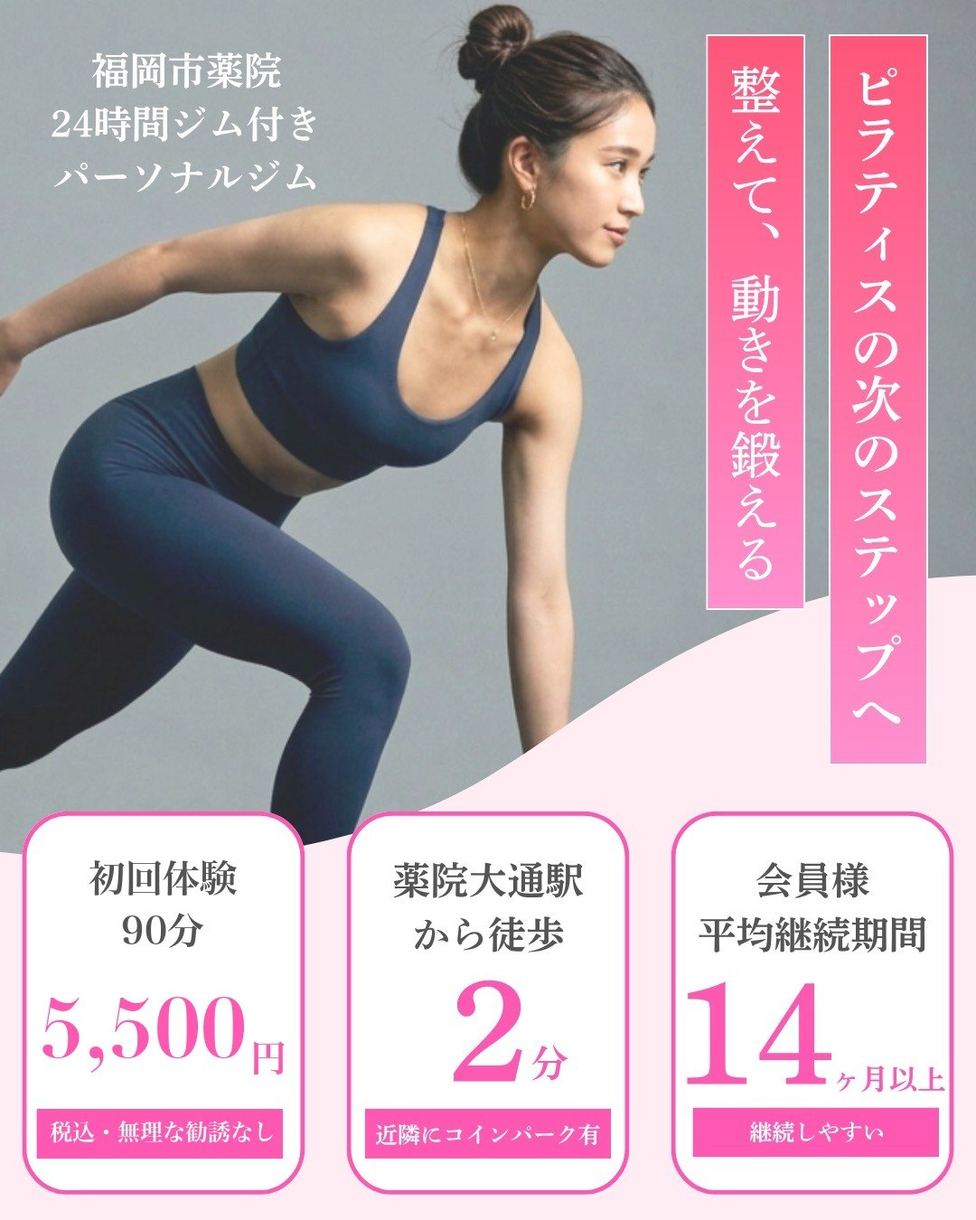
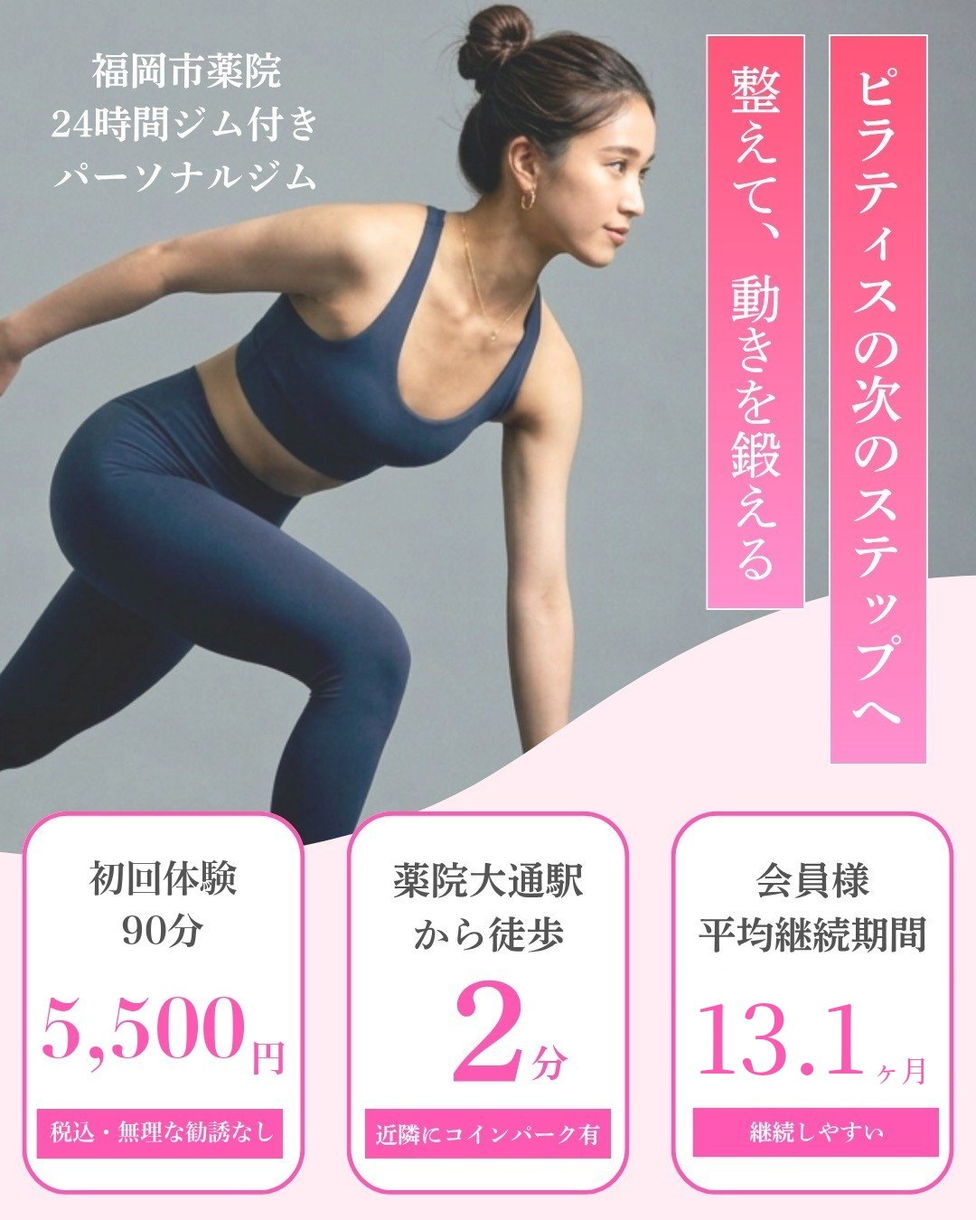
薬院ピラティスLP: 表現リスクの除去（変更1）
- 二重価格（通常13,200円）を削除
- 変化事例セクションと冒頭のCさん引用を削除
- リフォーマー写真ブロックを削除、「ここひとつで完結」等の表現を修正
- 代謝表現を弱め、24時間ジムは「利用料込み」に統一（USP画像の見出しも修正）
- ヒーロー画像の平均継続期間を13.1ヶ月に修正、USP画像のaltを実画像に合わせて修正
- 「1日数枠」を「各店 毎月5名限定」に統一、title/meta/OGPを更新

Claude-Session: https://claude.ai/code/session_01XMXEH83QHZ7METVjH455Hv

Changed region(s): [[0.7028, 0.8089, 0.9778, 0.9022]]

diff --git a/pilates-yakuin.html b/pilates-yakuin.html
@@ -4,16 +4,16 @@
 <meta charset="UTF-8">
 <meta name="viewport" content="width=device-width, initial-scale=1.0">
 <link rel="preload" as="image" href="images/pilates-hero-yakuin.webp" type="image/webp">
-<title>5toolgym 薬院店 | ピラティスで変わらなかった身体を変える｜福岡・薬院のパーソナルジム</title>
-<meta name="description" content="ピラティスで姿勢は変わった。でも、体型は変わらなかった。ピラティスの次に必要な運動が、ここにあります。薬院大通駅徒歩2分のパーソナルジム。">
+<title>ピラティスで変わらなかった身体へ、次のステップを｜5toolgym薬院店（福岡・薬院）</title>
+<meta name="description" content="福岡・薬院のパーソナルトレーニングジム。ピラティスで姿勢は変わったのに体型は変わらなかった方へ、立位の動きと負荷を足す次のステップを。24時間ジム利用料込み。体験90分5,500円。">
 <meta property="og:type" content="website">
-<meta property="og:title" content="5toolgym 薬院店 | ピラティスで変わらなかった身体を変える｜福岡・薬院">
-<meta property="og:description" content="ピラティスで姿勢は変わった。でも、体型は変わらなかった。ピラティスの次に必要な運動が、ここにあります。">
+<meta property="og:title" content="ピラティスの次に必要な運動が、ここにあります｜5toolgym薬院店">
+<meta property="og:description" content="姿勢と呼吸を整えた土台を活かして、立って動く力と負荷を。薬院大通駅徒歩2分、24時間ジム利用料込みのパーソナルトレーニング。">
 <meta property="og:image" content="https://lp-yakuin01.5toolgym.workers.dev/images/pilates-hero-yakuin.webp">
 <meta property="og:site_name" content="5toolgym 薬院店">
 <meta name="twitter:card" content="summary_large_image">
 <meta name="twitter:title" content="5toolgym 薬院店 | ピラティスで変わらなかった身体を変える｜福岡・薬院">
-<meta name="twitter:description" content="ピラティスで姿勢は変わった。でも、体型は変わらなかった。ピラティスの次に必要な運動が、ここにあります。">
+<meta name="twitter:description" content="姿勢と呼吸を整えた土台を活かして、立って動く力と負荷を。薬院大通駅徒歩2分、24時間ジム利用料込みのパーソナルトレーニング。">
 <meta name="twitter:image" content="https://lp-yakuin01.5toolgym.workers.dev/images/pilates-hero-yakuin.webp">
 <meta property="og:url" content="https://lp-yakuin01.5toolgym.workers.dev/pilates-yakuin.html">
 <link rel="canonical" href="https://lp-yakuin01.5toolgym.workers.dev/pilates-yakuin.html">
@@ -442,11 +442,6 @@ footer{background:#2D2D2D;padding:36px var(--sp) 20px;text-align:center}
 
 
 
-<!-- ══ REFORMER IMAGE ══ -->
-<div style="max-width:var(--max);margin:0 auto;padding:0 var(--sp)">
-  <picture><source srcset="images/pilates-reformer-yakuin.webp" type="image/webp"><img width="1408" height="768" src="images/pilates-reformer-yakuin.jpg" alt="5toolgym薬院店 マシンピラティスのリフォーマー" loading="lazy" style="width:100%;height:auto;display:block;border-radius:var(--r)"></picture>
-</div>
-
 <!-- ══ HOOK / EMPATHY ══ -->
 <picture style="display:block;line-height:0"><source srcset="images/pilates-empathy-yakuin.webp" type="image/webp"><img width="800" height="3000" src="images/pilates-empathy-yakuin.jpg" alt="レッスンの後は確かにスッキリしている。でも、1年前の自分とあまり変化がわからない。太もものパンパンや二の腕のたるみ、腰回りってずっとこのままなの？「姿勢が良くなったね！」と褒められることが増えたけど本当はもっとカラダを引き締めたくてピラティスに通ったんだけど・・・SNSで見かける綺麗な女性はピラティスに通っていた。私もきっとそうなれる！なんて思っていたけど現実はそう甘くなかった。絶対変わってやる！！と思ってがんばって続けてきたけどなぜかあまり変わらない。もしかして、今までの私の努力って無駄だったの・・・？あなたの努力は無駄じゃなかった 今、あなたに本当に必要なのは次の新しい運動のステップ だから5toolgymに任せてみませんか？" loading="lazy" style="width:100%;height:auto;display:block"></picture>
 <picture id="reason" style="display:block;line-height:0;scroll-margin-top:52px"><source srcset="images/pilates-hook-yakuin.webp" type="image/webp"><img width="800" height="1200" src="images/pilates-hook-yakuin.jpg" alt="ピラティスだけでは変わらない理由があります ピラティスは痩せるための運動ではありません" loading="lazy" style="width:100%;height:auto;display:block"></picture>
@@ -475,7 +470,7 @@ footer{background:#2D2D2D;padding:36px var(--sp) 20px;text-align:center}
       <div class="usp-item">
         <div>
           <picture style="display:block;line-height:0;margin-bottom:14px"><source srcset="images/pilates-factor3-yakuin.webp" type="image/webp"><img width="800" height="600" src="images/pilates-factor3-yakuin.jpg" alt="③筋肉を増やすための負荷" loading="lazy" style="width:100%;height:auto;display:block;border-radius:var(--r)"></picture>
-          <p class="usp-desc">ここが、体重が動かなかった直接の理由です。<br><br>筋肉量を増やすには、少しずつ重さを増やしていく刺激が必要です。<br>自重や軽いスプリングでは、その刺激に届きません。<br><br>筋肉が増えなければ、基礎代謝は上がりません。<br>基礎代謝が上がらなければ、同じ食事量でも体重は動きません。<br><br>ピラティスで「引き締まった感じはあるのに体重は変わらない」のは、ここに理由があります。</p>
+          <p class="usp-desc">ここが、体重が動かなかった直接の理由です。<br><br>筋肉量を増やすには、少しずつ重さを増やしていく刺激が必要です。<br>自重や軽いスプリングでは、その刺激に届きません。<br><br>筋肉量を維持・向上させる負荷がなければ、<br>太りにくい身体づくりは進みにくくなります。<br><br>ピラティスで「引き締まった感じはあるのに体重は変わらない」のは、ここに理由があります。</p>
         </div>
       </div>
     </div>
@@ -492,12 +487,6 @@ footer{background:#2D2D2D;padding:36px var(--sp) 20px;text-align:center}
           <li><span>安心</span>無理な勧誘なし・当日キャンセルOK・相談だけでもOK</li>
           <li><span>環境</span>女性トレーナー対応可能・24時間ジム付き</li>
         </ul>
-        <figure class="quick-voice">
-          <blockquote>「細くなっただけでなく、猫背や太もものパンパンが良くなって、筋力も体力もついたことが嬉しいです。」</blockquote>
-          <figcaption>Cさん・20代女性（通い始めて約9ヶ月）</figcaption>
-        </figure>
-        <p class="quick-note">※ご本人の許可を得て掲載しています。効果には個人差があります。</p>
-        <a href="#results" class="quick-more">通ってくださった方の変化を見る ↓</a>
         <a href="https://instagram.kanzashi.com/l/1uyf95d0BYo/kirei" class="btn-main">体験を予約する（90分 5,500円）</a>
         <a href="https://lin.ee/Y1P0dZl" class="btn-line" data-line-pos="quick">まずLINEで質問する</a>
       <p class="btn-note" style="line-height:1.8;margin-top:12px">予約画面では、トレーナーは「指名なし」で大丈夫です。<br>準備時間を含めて約2時間の枠で表示されますが、体験は90分です。</p>
@@ -531,7 +520,7 @@ footer{background:#2D2D2D;padding:36px var(--sp) 20px;text-align:center}
           <div class="flow-num">2</div>
           <div class="flow-body">
             <p class="flow-ttl">3〜6ヶ月｜体重・体脂肪</p>
-            <p class="flow-desc">早い方は3ヶ月で動き始めます。筋肉が増えて代謝が上がってくる時期です。</p>
+            <p class="flow-desc">動き方が身についてきて、変化を感じ始める方が多い時期です。</p>
           </div>
         </div>
         <div class="flow-item">
@@ -564,37 +553,37 @@ footer{background:#2D2D2D;padding:36px var(--sp) 20px;text-align:center}
       <div class="usp-item">
         <span class="usp-num">01</span>
         <div>
-          <picture style="display:block;line-height:0;margin-top:0"><source srcset="images/pilates-usp1-yakuin.webp" type="image/webp"><img width="800" height="1000" src="images/pilates-usp1-yakuin.jpg" alt="ピラティスの感覚が、ここで活きる" loading="lazy" style="width:100%;height:auto;display:block;border-radius:var(--r)"></picture>
+          <picture style="display:block;line-height:0;margin-top:0"><source srcset="images/pilates-usp1-yakuin.webp" type="image/webp"><img width="800" height="1000" src="images/pilates-usp1-yakuin.jpg" alt="ピラティスの経験を土台に、足りない要素を積み重ねる" loading="lazy" style="width:100%;height:auto;display:block;border-radius:var(--r)"></picture>
         </div>
       </div>
       <div class="usp-item">
         <span class="usp-num">02</span>
         <div>
-          <picture style="display:block;line-height:0;margin-top:0"><source srcset="images/pilates-usp2-yakuin.webp" type="image/webp"><img width="800" height="1000" src="images/pilates-usp2-yakuin.jpg" alt="ピラティスでは届かなかった下半身を変える" loading="lazy" style="width:100%;height:auto;display:block;border-radius:var(--r)"></picture>
+          <picture style="display:block;line-height:0;margin-top:0"><source srcset="images/pilates-usp2-yakuin.webp" type="image/webp"><img width="800" height="1000" src="images/pilates-usp2-yakuin.jpg" alt="筋肉を鍛えるだけではないトレーニングを提供" loading="lazy" style="width:100%;height:auto;display:block;border-radius:var(--r)"></picture>
         </div>
       </div>
       <div class="usp-item">
         <span class="usp-num">03</span>
         <div>
-          <picture style="display:block;line-height:0;margin-top:0"><source srcset="images/pilates-usp3-yakuin.webp" type="image/webp"><img width="800" height="1000" src="images/pilates-usp3-yakuin.jpg" alt="負荷のかけ方を、身体に合わせて設計する" loading="lazy" style="width:100%;height:auto;display:block;border-radius:var(--r)"></picture>
+          <picture style="display:block;line-height:0;margin-top:0"><source srcset="images/pilates-usp3-yakuin.webp" type="image/webp"><img width="800" height="1000" src="images/pilates-usp3-yakuin.jpg" alt="追加料金なしでパーソナルストレッチ" loading="lazy" style="width:100%;height:auto;display:block;border-radius:var(--r)"></picture>
         </div>
       </div>
       <div class="usp-item">
         <span class="usp-num">04</span>
         <div>
-          <picture style="display:block;line-height:0;margin-top:0"><source srcset="images/pilates-usp4-yakuin.webp" type="image/webp"><img width="800" height="1000" src="images/pilates-usp4-yakuin.jpg" alt="ピラティスも、ここで続けられる" loading="lazy" style="width:100%;height:auto;display:block;border-radius:var(--r)"></picture>
+          <picture style="display:block;line-height:0;margin-top:0"><source srcset="images/pilates-usp4-yakuin.webp" type="image/webp"><img width="800" height="1000" src="images/pilates-usp4-yakuin.jpg" alt="24時間ジム利用料込み" loading="lazy" style="width:100%;height:auto;display:block;border-radius:var(--r)"></picture>
         </div>
       </div>
       <div class="usp-item">
         <span class="usp-num">05</span>
         <div>
-          <picture style="display:block;line-height:0;margin-top:0"><source srcset="images/pilates-usp5-yakuin.webp" type="image/webp"><img width="800" height="1000" src="images/pilates-usp5-yakuin.jpg" alt="24時間ジム無料利用" loading="lazy" style="width:100%;height:auto;display:block;border-radius:var(--r)"></picture>
+          <picture style="display:block;line-height:0;margin-top:0"><source srcset="images/pilates-usp5-yakuin.webp" type="image/webp"><img width="800" height="1000" src="images/pilates-usp5-yakuin.jpg" alt="開始時間直前まで予約の変更・キャンセルOK" loading="lazy" style="width:100%;height:auto;display:block;border-radius:var(--r)"></picture>
         </div>
       </div>
       <div class="usp-item">
         <span class="usp-num">06</span>
         <div>
-          <picture style="display:block;line-height:0;margin-top:0"><source srcset="images/pilates-usp6-yakuin.webp" type="image/webp"><img width="800" height="1000" src="images/pilates-usp6-yakuin.jpg" alt="当日キャンセルOK 縛りなし・繰越可能" loading="lazy" style="width:100%;height:auto;display:block;border-radius:var(--r)"></picture>
+          <picture style="display:block;line-height:0;margin-top:0"><source srcset="images/pilates-usp6-yakuin.webp" type="image/webp"><img width="800" height="1000" src="images/pilates-usp6-yakuin.jpg" alt="月額コースの繰越OK" loading="lazy" style="width:100%;height:auto;display:block;border-radius:var(--r)"></picture>
         </div>
       </div>
     </div>
@@ -621,8 +610,8 @@ footer{background:#2D2D2D;padding:36px var(--sp) 20px;text-align:center}
           <tr><td>静止した姿勢を整える</td><td class="compare-ok">得意</td><td class="compare-best">こちらもアプローチする</td></tr>
           <tr><td>立位・片脚での使い方</td><td class="compare-ng">種目による</td><td class="compare-best">中心に扱う</td></tr>
           <tr><td>速い動き・日常動作への転移</td><td class="compare-ng">対象外のことが多い</td><td class="compare-best">中心に扱う</td></tr>
-          <tr><td>筋肉量と代謝を上げる</td><td class="compare-ng">対象外のことが多い</td><td class="compare-best">中心に扱う</td></tr>
-          <tr><td>24時間の自主トレ環境</td><td class="compare-ng">スタジオによる</td><td class="compare-best">併設あり（薬院店）</td></tr>
+          <tr><td>筋肉量を維持・向上させる負荷</td><td class="compare-ng">対象外のことが多い</td><td class="compare-best">中心に扱う</td></tr>
+          <tr><td>24時間の自主トレ環境</td><td class="compare-ng">スタジオによる</td><td class="compare-best">併設あり（薬院店・利用料込み）</td></tr>
         </tbody>
       </table>
     </div>
@@ -639,87 +628,6 @@ footer{background:#2D2D2D;padding:36px var(--sp) 20px;text-align:center}
   </div>
 </div>
 
-<!-- ══ RESULTS ══ -->
-<section class="results" id="results">
-  <div class="results-inner">
-    <p class="sec-eyebrow" aria-hidden="true">RESULTS</p>
-    <h2 class="sec-ttl">通ってくださった方の<em>変化</em></h2>
-    <div class="sec-bar"></div>
-    <div class="results-grid">
-      <div class="result-card">
-        <picture style="display:block"><source srcset="images/customer-40s.webp" type="image/webp"><img width="768" height="1376" src="images/customer-40s.jpg" alt="Aさん・40代女性" loading="lazy" style="width:150px;height:auto;margin:16px auto 0;display:block;border-radius:var(--r)"></picture>
-        <p style="font-size:10px;color:var(--light);text-align:center;margin-top:4px">※画像はイメージです</p>
-        <div class="result-head">
-          <div class="result-meta">Aさん・40代女性<br>通い始めて約13ヶ月</div>
-          <span class="result-tag">体型・姿勢改善</span>
-        </div>
-        <div class="result-body">
-          <div class="result-nums">
-            <div class="result-num">
-              <p class="result-num-label">体重</p>
-              <p class="result-num-val">-9.3<span style="font-size:14px">kg</span></p>
-              <p class="result-num-change">64.6kg → 55.3kg</p>
-            </div>
-            <div class="result-num">
-              <p class="result-num-label">体脂肪率</p>
-              <p class="result-num-val">-8.7<span style="font-size:14px">%</span></p>
-              <p class="result-num-change">38.7% → 30.0%</p>
-            </div>
-          </div>
-          <p class="result-voice">崩れてきた体型を子供達に馬鹿にされていましたが、変わってきたことと毎週通っている努力を認めてくれたのか、「若くなったね、いい感じになってきたね」と褒めてくれるようになりました。</p>
-        </div>
-      </div>
-      <div class="result-card">
-        <picture style="display:block"><source srcset="images/customer-30s.webp" type="image/webp"><img width="768" height="1376" src="images/customer-30s.jpg" alt="Bさん・30代女性" loading="lazy" style="width:150px;height:auto;margin:16px auto 0;display:block;border-radius:var(--r)"></picture>
-        <p style="font-size:10px;color:var(--light);text-align:center;margin-top:4px">※画像はイメージです</p>
-        <div class="result-head">
-          <div class="result-meta">Bさん・30代女性<br>通い始めて約6ヶ月</div>
-          <span class="result-tag">ダイエット</span>
-        </div>
-        <div class="result-body">
-          <div class="result-nums">
-            <div class="result-num">
-              <p class="result-num-label">体重</p>
-              <p class="result-num-val">-10.8<span style="font-size:14px">kg</span></p>
-              <p class="result-num-change">76.5kg → 65.7kg</p>
-            </div>
-            <div class="result-num">
-              <p class="result-num-label">体脂肪率</p>
-              <p class="result-num-val">-5.9<span style="font-size:14px">%</span></p>
-              <p class="result-num-change">45.8% → 39.9%</p>
-            </div>
-          </div>
-          <p class="result-voice">結構痩せたので、いろんな人に「何かやってるでしょ？」と聞かれるようになりました。旦那からはもうちょっとウエストを引き締めて欲しいと言われたので、まだまだ頑張ります！</p>
-        </div>
-      </div>
-      <div class="result-card">
-        <picture style="display:block"><source srcset="images/customer-20s.webp" type="image/webp"><img width="768" height="1376" src="images/customer-20s.jpg" alt="Cさん・20代女性" loading="lazy" style="width:150px;height:auto;margin:16px auto 0;display:block;border-radius:var(--r)"></picture>
-        <p style="font-size:10px;color:var(--light);text-align:center;margin-top:4px">※画像はイメージです</p>
-        <div class="result-head">
-          <div class="result-meta">Cさん・20代女性<br>通い始めて約9ヶ月</div>
-          <span class="result-tag">体型改善</span>
-        </div>
-        <div class="result-body">
-          <div class="result-nums">
-            <div class="result-num">
-              <p class="result-num-label">体重</p>
-              <p class="result-num-val">-13.9<span style="font-size:14px">kg</span></p>
-              <p class="result-num-change">70.5kg → 56.6kg</p>
-            </div>
-            <div class="result-num">
-              <p class="result-num-label">体脂肪率</p>
-              <p class="result-num-val">-11.0<span style="font-size:14px">%</span></p>
-              <p class="result-num-change">39.5% → 28.5%</p>
-            </div>
-          </div>
-          <p class="result-voice">痩せたことも嬉しいですが、細くなっただけでなく、猫背や太もものパンパンが良くなって、筋力も体力もついたことが嬉しいです。仕事終わりでも体力が残っています！</p>
-        </div>
-      </div>
-    </div>
-    <p class="results-note">数字が大きい方を選んで並べています。全員がこうなるわけではありません。</p>
-    <p class="results-note" style="margin-top:10px">※薬院店・赤坂大濠公園店の実績です。<br>※ご本人の許可を得て掲載しています。<br>※効果には個人差があり、同じ結果を保証するものではありません。</p>
-  </div>
-</section>
 
 <picture><source srcset="images/gym-interior-yakuin.webp" type="image/webp"><img width="900" height="1200" loading="lazy" src="images/gym-interior-yakuin.jpg" alt="5toolgym薬院店 設備" style="width:100%;height:260px;object-fit:cover;object-position:center;display:block"></picture>
 
@@ -880,7 +788,6 @@ footer{background:#2D2D2D;padding:36px var(--sp) 20px;text-align:center}
     <h2 class="offer-ttl">まず、体験してみてください。</h2>
     <div class="offer-box">
       <div style="display:flex;align-items:baseline;gap:12px;justify-content:center;margin-bottom:8px;">
-        <span style="font-size:1.05rem;color:rgba(255,255,255,.5);text-decoration:line-through;">通常 ¥13,200</span>
         <span style="font-size:1.8rem;font-weight:bold;color:inherit;">¥5,500</span>
         <span style="font-size:0.85rem;color:rgba(255,255,255,.5);">（税込）</span>
       </div>
@@ -1012,11 +919,11 @@ footer{background:#2D2D2D;padding:36px var(--sp) 20px;text-align:center}
       </div>
       <div class="anxiety-item">
         <button class="anxiety-q" aria-expanded="false"><span class="anxiety-q-mark">Q.</span><span class="anxiety-q-text">ピラティスをやめないといけませんか？</span><svg class="anxiety-chevron" viewBox="0 0 24 24" fill="none" stroke="currentColor" stroke-width="2" stroke-linecap="round"><polyline points="6 9 12 15 18 9"/></svg></button>
-        <div class="anxiety-body"><p class="anxiety-a">やめなくて大丈夫です。ただ、5toolgymではピラティスの種目も機能改善に取り入れているので、ここひとつで完結できる方も多いです。どちらにするかは体験後に一緒に考えましょう。</p></div>
+        <div class="anxiety-body"><p class="anxiety-a">やめなくて大丈夫です。ピラティスと併用される方も、トレーニングに切り替える方もいらっしゃいます。どちらが合うかは、体験後に一緒に考えましょう。</p></div>
       </div>
       <div class="anxiety-item">
         <button class="anxiety-q" aria-expanded="false"><span class="anxiety-q-mark">Q.</span><span class="anxiety-q-text">5toolgymではピラティスの要素も取り入れていますか？</span><svg class="anxiety-chevron" viewBox="0 0 24 24" fill="none" stroke="currentColor" stroke-width="2" stroke-linecap="round"><polyline points="6 9 12 15 18 9"/></svg></button>
-        <div class="anxiety-body"><p class="anxiety-a">はい。ただし、リフォーマーなどのマシンピラティスは提供していません。ピラティスの要素を含んだエクササイズを通常のパーソナルトレーニングの中で提供し、そこから次のステップへ進めるように設計しています。追加料金はかかりません。ピラティス資格を持つ髙須トレーナーが在籍しているので、ピラティスで培った感覚を活かしながらそのまま続けられます。担当トレーナーはご予約時に指名でき、女性トレーナーでもピラティスの要素を含んだ内容を受けていただけます。「ピラティスに通いながら別のジムにも行く」ではなく、5toolgymひとつで完結できます。</p></div>
+        <div class="anxiety-body"><p class="anxiety-a">はい。ただし、リフォーマーなどのマシンピラティスは提供していません。ピラティスの要素を含んだエクササイズを通常のパーソナルトレーニングの中で提供し、そこから次のステップへ進めるように設計しています。追加料金はかかりません。ピラティス資格を持つ髙須トレーナーが在籍しており、ピラティスで培った感覚を活かしながら次のステップへ進めます。担当トレーナーはご予約時に指名でき、女性トレーナーでもピラティスの要素を含んだ内容を受けていただけます。なお、5toolgymはパーソナルトレーニングジムで、ピラティスのレッスンではありません。</p></div>
       </div>
       <div class="anxiety-item">
         <button class="anxiety-q" aria-expanded="false"><span class="anxiety-q-mark">Q.</span><span class="anxiety-q-text">急なキャンセルになることがあります</span><svg class="anxiety-chevron" viewBox="0 0 24 24" fill="none" stroke="currentColor" stroke-width="2" stroke-linecap="round"><polyline points="6 9 12 15 18 9"/></svg></button>
@@ -1058,9 +965,9 @@ footer{background:#2D2D2D;padding:36px var(--sp) 20px;text-align:center}
 <section class="final-cta">
   <div class="final-cta-inner">
     <h2 class="final-cta-ttl">ピラティスは正解でした。<br><em>ただ、次が必要だっただけです。</em></h2>
-    <p class="final-cta-sub">変わりたいと思ったその日が、始め時です。<br>まず90分、体験してみてください。</p>
+    <p class="final-cta-sub">急がなくて大丈夫です。<br>まず90分、体験してみてください。</p>
     <a href="https://instagram.kanzashi.com/l/1uyf95d0BYo/kirei" class="btn-main">今すぐ予約する →</a>
-    <p class="btn-note" style="margin-top:10px">体験は1日あたり数枠のみのご案内です（予約状況はフォームでご確認いただけます）</p>
+    <p class="btn-note" style="margin-top:10px">体験は各店 毎月5名限定です（予約状況はフォームでご確認いただけます）</p>
     <a href="https://lin.ee/Y1P0dZl" class="btn-line" data-line-pos="final">まずLINEで質問する</a>
   </div>
 </section>
